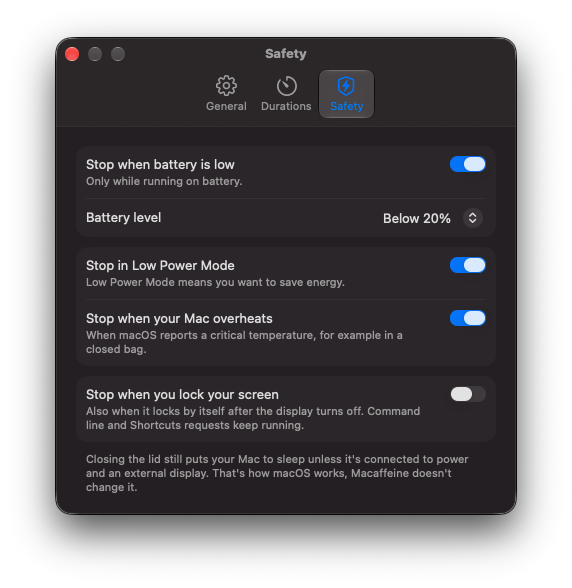
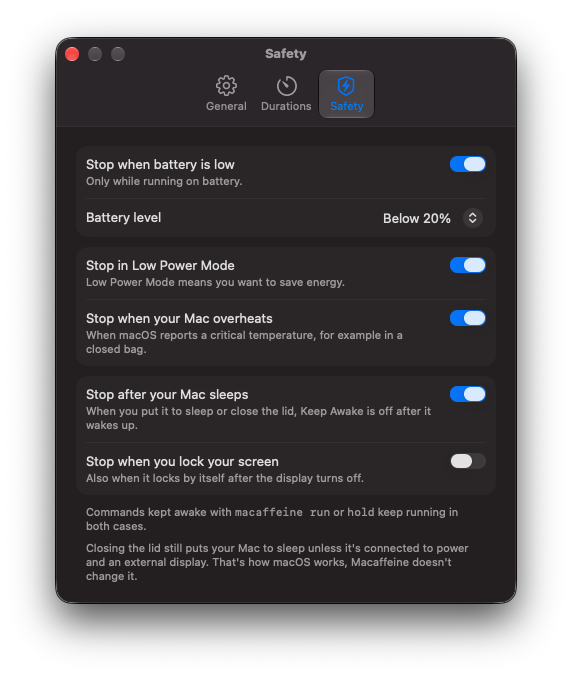
Update README and docs for the sleep rule and community links

diff --git a/README.md b/README.md
@@ -30,8 +30,8 @@ Built for those moments when you start a long build, deploy, AI agent, or remote
 - **One click or one shortcut.** Toggle from the menu bar or press <kbd>⌃</kbd><kbd>⌥</kbd><kbd>⌘</kbd><kbd>K</kbd> from anywhere. The shortcut can be changed or turned off.
 - **Timers that don't lie.** Keep awake indefinitely, for a preset (5 minutes to 5 hours by default, and you can add your own) or until a time of day. The countdown uses the real clock, so it stays right even if the Mac did sleep in between.
 - **Your display can still sleep.** Only idle system sleep is blocked by default. Turn on *Keep Display On* when you need the screen too.
-- **Safety first.** Keep awake stops by itself when the battery runs low, when Low Power Mode is on, or when the Mac gets critically hot. Optionally it also stops when you lock the screen.
-- **Knows what else is going on.** The menu shows other apps and tools that are keeping your Mac awake, like a `caffeinate` started by a script.
+- **Safety first.** Keep awake stops by itself when the battery runs low, when Low Power Mode is on, or when the Mac gets critically hot. It also turns off after you put your Mac to sleep, so a forgotten session doesn't carry over — and optionally when you lock the screen.
+- **Knows what else is going on.** The menu shows other apps and tools that are keeping your Mac awake and for how long, like a `caffeinate` someone forgot in a Terminal tab.
 - **Made for automation.** A command line tool, a `macaffeine://` URL scheme, Shortcuts actions and ready-made hooks for AI coding agents.
 - **Native and tiny.** Swift, AppKit and SwiftUI, about 1 MB zipped. Sandboxed, zero dependencies, zero network access.
 - **Speaks your language.** English, 한국어, 简体中文 and Русский, picked from your system language.
@@ -88,7 +88,7 @@ The cup is empty when your Mac can sleep and steaming when Macaffeine keeps it a
 
 - **General** — launch at login, keep display on, remaining time next to the cup, the global shortcut, notifications and the command line tool.
 - **Durations** — the presets in the menu. Add your own, remove the ones you never use.
-- **Safety** — battery level, Low Power Mode, overheating and screen lock rules.
+- **Safety** — battery level, Low Power Mode, overheating, sleep and screen lock rules.
 
 ## Automation
 
@@ -145,7 +145,7 @@ Local builds are signed ad hoc, no Apple Developer account needed.
 
 ## Contributing
 
-Bug reports, ideas and pull requests are welcome. Please open an issue first for bigger changes, so we can agree on the approach. Translations are especially welcome — all strings live in `Macaffeine/Resources/Localizable.xcstrings`.
+Bug reports, translations and small pull requests are welcome — see [CONTRIBUTING.md](CONTRIBUTING.md). Questions and ideas go to [Discussions](https://github.com/devopscodepro/macaffeine/discussions), security issues to a [private report](SECURITY.md).
 
 ## License
 

diff --git a/docs/automation.md b/docs/automation.md
@@ -7,7 +7,7 @@ There are two kinds of requests:
 - **Session** — what you start from the menu, the hotkey, `macaffeine on` or `macaffeine://activate`. There's only one.
 - **Hold** — a named request from a script or tool, e.g. "while `make` runs". There can be many. A hold can be tied to a process and goes away when that process exits, even if it crashes.
 
-Your Mac stays awake while there's a session or at least one hold. Turning Keep Awake off from the menu or hotkey drops everything.
+Your Mac stays awake while there's a session or at least one hold. Turning Keep Awake off from the menu or hotkey drops everything. The *Stop after your Mac sleeps* and *Stop when you lock your screen* rules end only the session — holds belong to running processes and keep going.
 
 ## Command line
 
